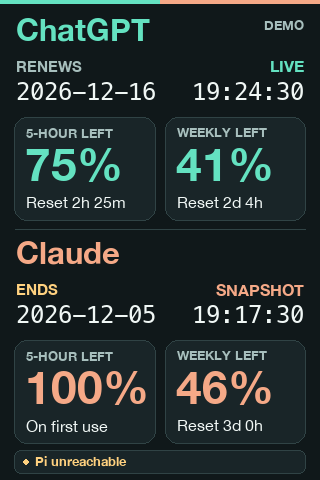
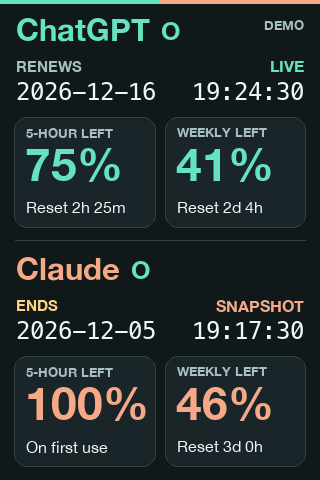
Show sync health next to each usage provider

diff --git a/dashboard.py b/dashboard.py
@@ -13,7 +13,6 @@ from pathlib import Path
 from PIL import Image, ImageDraw, ImageFont
 
 from claude_usage import ClaudeUsage, read_usage
-from monitor_status import Reachability
 from preferences import Preferences, Subscription, read_preferences
 from turzx import HEIGHT, WIDTH, Display
 from usage import CodexServer, UsageError, Window, find_codex, quota_windows
@@ -105,24 +104,40 @@ def allowance(window, accent):
     return remaining, color
 
 
-def chat_status(snapshot):
+def chat_status(snapshot, now):
     if snapshot.failed:
         return ("STALE" if snapshot.limits_at else "OFFLINE", AMBER)
-    return "LIVE", TEAL
+    if not snapshot.limits_at:
+        return "WAITING", MUTED
+    problem = quota_update_problem(snapshot.windows, now)
+    return (problem, AMBER) if problem else ("LIVE", TEAL)
 
 
 def claude_status(usage, now):
     if usage is None:
         return "WAITING", MUTED
-    if any(quota_expired(window, now) for window in usage.windows):
-        return "UPDATE DUE", AMBER
     age = now - usage.received_at
-    if usage.source == "web":
-        return ("STALE", AMBER) if age > timedelta(minutes=3) else ("LIVE", CLAUDE)
-    cached = age > timedelta(minutes=15)
-    if usage.source == "desktop":
-        return "SNAPSHOT", AMBER if cached else CLAUDE
-    return ("CACHED", AMBER) if cached else ("RECENT", CLAUDE)
+    stale_after = timedelta(minutes=3 if usage.source == "web" else 15)
+    if age > stale_after:
+        return ("STALE" if usage.source == "web" else "CACHED", AMBER)
+    problem = quota_update_problem(usage.windows, now)
+    if problem:
+        return problem, AMBER
+    return {"web": "LIVE", "desktop": "SNAPSHOT"}.get(usage.source, "RECENT"), CLAUDE
+
+
+def quota_update_problem(windows, now):
+    if not windows:
+        return "NO DATA"
+    if any(quota_expired(window, now) for window in windows):
+        return "UPDATE DUE"
+    if any(window.reset_at is None and not session_not_started(window) for window in windows):
+        return "RESET UNKNOWN"
+    return None
+
+
+def health_mark(status):
+    return ("O", TEAL) if status in {"LIVE", "SNAPSHOT", "RECENT"} else ("X", RED)
 
 
 def quota_expired(window, now):
@@ -141,13 +156,13 @@ def quota_card(draw, box, window, now, accent):
     label(draw, (left + 12, top + 11), f"{window_name(window.minutes)} LEFT", 13, MUTED, "bold")
     if quota_expired(window, now):
         label(draw, (left + 11, top + 33), "–", 46, MUTED, "bold")
-        label(draw, (left + 12, top + 80), "Awaiting update", 16, MUTED)
+        label(draw, (left + 12, top + 85), "Awaiting update", 16, MUTED)
         return
 
     remaining, color = allowance(window, accent)
     label(draw, (left + 11, top + 31), f"{remaining}%", 46, color, "bold")
     reset = "On first use" if session_not_started(window) else reset_label(window.reset_at, now)
-    label(draw, (left + 12, top + 80), reset, 16, TEXT)
+    label(draw, (left + 12, top + 85), reset, 16, TEXT)
 
 
 def subscription_label(subscription, now):
@@ -164,6 +179,9 @@ def subscription_label(subscription, now):
 def provider_section(draw, top, title, accent, status, stamp, subscription, windows, now,
                      *, empty, stacked=False):
     label(draw, (16, top), title, 31, accent, "bold")
+    mark, mark_color = health_mark(status[0])
+    mark_x = 16 + round(font(31, "bold").getlength(title)) + 11
+    label(draw, (mark_x, top + 4), mark, 25, mark_color, "bold")
     subscription_text, date_color = subscription_label(subscription, now)
     label(draw, (16, top + 43), subscription_text, 15, date_color, "bold")
     day = subscription.date if subscription else "—"
@@ -178,7 +196,7 @@ def provider_section(draw, top, title, accent, status, stamp, subscription, wind
 
     card_top = top + 99
     if not windows:
-        panel(draw, card_top, 104)
+        panel(draw, card_top, 111)
         label(draw, (27, card_top + 45), empty, 18)
         return
 
@@ -189,76 +207,31 @@ def provider_section(draw, top, title, accent, status, stamp, subscription, wind
     else:
         spans = ((14, 155, card_top), (165, 305, card_top))
     for window, (left, right, y) in zip(windows, spans):
-        quota_card(draw, (left, y, right, y + 103), window, now, accent)
+        quota_card(draw, (left, y, right, y + 110), window, now, accent)
 
 
-def status_messages(snapshot, claude, now, mode, unreachable):
-    messages = []
-    if mode != "claude" and snapshot.failed:
-        messages.append("ChatGPT sync unavailable")
-    if mode != "chatgpt":
-        status, _ = claude_status(claude, now)
-        if status == "WAITING":
-            messages.append("Claude usage not connected")
-        elif status in {"STALE", "CACHED"}:
-            messages.append("Claude sync delayed")
-        elif status == "UPDATE DUE":
-            messages.append("Claude quota reset · awaiting data")
-        elif claude.source == "desktop" and now - claude.received_at > timedelta(minutes=15):
-            messages.append("Claude snapshot needs refresh")
-        elif any(window.reset_at is None and not session_not_started(window) for window in claude.windows):
-            messages.append("Claude reset time unavailable")
-
-    providers = (
-        ("ChatGPT", snapshot.windows if mode != "claude" and not snapshot.failed else ()),
-        ("Claude", claude.windows if claude and mode != "chatgpt" else ()),
-    )
-    for name, windows in providers:
-        remaining = min((max(0, 100 - window.used) for window in windows or ()
-                         if not quota_expired(window, now)), default=100)
-        if remaining <= 10:
-            messages.append(f"{name} {remaining}% left")
-    messages.extend(f"{name} unreachable" for name in unreachable)
-    return messages
-
-
-def status_strip(draw, messages):
-    if not messages:
-        return
-    draw.rounded_rectangle((14, 450, 305, 473), radius=7, fill=PANEL, outline=BORDER)
-    draw.ellipse((23, 459, 28, 464), fill=AMBER)
-    for count in range(len(messages), 0, -1):
-        text = "  ·  ".join(messages[:count])
-        if count < len(messages):
-            text += f"  +{len(messages) - count}"
-        if font(13, "bold").getlength(text) <= 265:
-            label(draw, (35, 456), text, 13, AMBER, "bold")
-            break
-
-
-def render_dashboard(snapshot, claude, now, preferences, demo=False, *, unreachable=()):
+def render_dashboard(snapshot, claude, now, preferences, demo=False):
     mode = preferences.mode
     image = Image.new("RGB", (WIDTH, HEIGHT), BG)
     draw = ImageDraw.Draw(image)
     draw.rectangle((0, 0, WIDTH - 1, 3), fill=CLAUDE if mode == "claude" else TEAL)
     if mode == "combined":
         draw.rectangle((160, 0, WIDTH - 1, 3), fill=CLAUDE)
-        draw.line((15, 229, 305, 229), fill=BORDER)
+        draw.line((15, 240, 305, 240), fill=BORDER)
     if demo:
         label(draw, (304, 20), "DEMO", 13, MUTED, "bold", "rt")
 
     if mode != "claude":
         empty = "Quota unavailable" if snapshot.windows is None else "No quota window reported"
-        provider_section(draw, 18, "ChatGPT", TEAL, chat_status(snapshot), snapshot.limits_at,
+        provider_section(draw, 18, "ChatGPT", TEAL, chat_status(snapshot, now), snapshot.limits_at,
                          preferences.chatgpt_subscription, snapshot.windows, now,
                          empty=empty, stacked=mode == "chatgpt")
     if mode != "chatgpt":
-        top = 241 if mode == "combined" else 18
+        top = 257 if mode == "combined" else 18
         provider_section(draw, top, "Claude", CLAUDE, claude_status(claude, now),
                          claude.received_at if claude else None, preferences.claude_subscription,
                          claude.windows if claude else None, now, empty="Import Claude App usage",
                          stacked=mode == "claude")
-    status_strip(draw, status_messages(snapshot, claude, now, mode, unreachable))
     return image
 
 
@@ -274,8 +247,7 @@ def demo_image(path, mode):
     ), now)
     prefs = Preferences(mode=mode, chatgpt_subscription=Subscription("renews", "2026-12-16"),
                         claude_subscription=Subscription("ends", "2026-12-05"))
-    render_dashboard(snapshot, claude, now, prefs, demo=True,
-                     unreachable=("Pi",) if mode == "combined" else ()).save(path)
+    render_dashboard(snapshot, claude, now, prefs, demo=True).save(path)
 
 
 def main():
@@ -306,7 +278,6 @@ def main():
     server = CodexServer(executable)
     screen = Display(args.port)
     snapshot = Snapshot()
-    reachability = Reachability()
     last_poll = None
     last_claude_snapshot = None
     preferences = read_preferences()
@@ -342,8 +313,7 @@ def main():
 
             now = datetime.now().astimezone()
             claude = read_usage() if mode != "chatgpt" else None
-            reachability.refresh(preferences)
-            frame = render_dashboard(snapshot, claude, now, preferences, unreachable=reachability.unreachable)
+            frame = render_dashboard(snapshot, claude, now, preferences)
             try:
                 screen.show(frame, brightness=preferences.brightness)
             except OSError as error:

diff --git a/tests/test_usage_health.py b/tests/test_usage_health.py
@@ -1,0 +1,35 @@
+import unittest
+from datetime import datetime, timedelta
+
+from claude_usage import ClaudeUsage
+from dashboard import Snapshot, chat_status, claude_status, health_mark
+from usage import Window
+
+
+class UsageHealthTests(unittest.TestCase):
+    def setUp(self):
+        self.now = datetime.fromisoformat("2026-11-17T07:00:00+08:00")
+        self.reset = int((self.now + timedelta(hours=2)).timestamp())
+
+    def test_chatgpt_health_reflects_sync_and_not_remaining_amount(self):
+        windows = (Window(93, 300, self.reset),)
+        healthy = Snapshot(windows, self.now)
+        failed = Snapshot(windows, self.now, True)
+        for snapshot, symbol in ((healthy, "O"), (failed, "X"), (Snapshot(), "X"),
+                                 (Snapshot((), self.now), "X")):
+            self.assertEqual(health_mark(chat_status(snapshot, self.now)[0])[0], symbol)
+
+    def test_claude_mark_recovers_with_a_new_sync(self):
+        windows = (Window(20, 300, self.reset),)
+        stale = ClaudeUsage(self.now - timedelta(minutes=4), windows, "web")
+        fresh = ClaudeUsage(self.now, windows, "web")
+        old_snapshot = ClaudeUsage(self.now - timedelta(minutes=20), windows, "desktop")
+        for usage, symbol in ((None, "X"), (stale, "X"), (fresh, "O"), (old_snapshot, "X")):
+            self.assertEqual(health_mark(claude_status(usage, self.now)[0])[0], symbol)
+
+    def test_idle_session_is_healthy_and_missing_reset_is_not(self):
+        idle = ClaudeUsage(self.now, (Window(0, 300, None, True),), "web")
+        unknown = ClaudeUsage(self.now, (Window(0, 300, None, False),), "web")
+        expired = ClaudeUsage(self.now, (Window(25, 300, 1),), "web")
+        for usage, symbol in ((idle, "O"), (unknown, "X"), (expired, "X")):
+            self.assertEqual(health_mark(claude_status(usage, self.now)[0])[0], symbol)

diff --git a/preferences.py b/preferences.py
@@ -3,7 +3,6 @@
 import json
 from dataclasses import asdict, dataclass, replace
 from datetime import date
-from ipaddress import ip_address
 from pathlib import Path
 from tempfile import NamedTemporaryFile
 
@@ -34,8 +33,6 @@ class Preferences:
     blank_on_stop: bool = False
     chatgpt_subscription: Subscription | None = None
     claude_subscription: Subscription | None = None
-    nous_core_port: int | None = None
-    pi_host: str | None = None
 
 
 def read_preferences(path=PREFERENCES):
@@ -58,29 +55,7 @@ def read_preferences(path=PREFERENCES):
                 values[field] = subscription(entry.get("event"), entry.get("date"))
             except ValueError:
                 pass
-    try:
-        values.update(monitor_values(raw.get("nous_core_port"), raw.get("pi_host")))
-    except ValueError:
-        pass
     return Preferences(**values)
-
-
-def monitor_values(nous_port, pi_host):
-    if nous_port is not None and (type(nous_port) is not int or not 1 <= nous_port <= 65535):
-        raise ValueError("Use a valid localhost port for Nous Core")
-    if pi_host is not None:
-        if not isinstance(pi_host, str):
-            raise ValueError("Use a local IP address for the Pi")
-        address = ip_address(pi_host)
-        if not (address.is_private and not address.is_loopback and not address.is_unspecified):
-            raise ValueError("Use a local network IP address for the Pi")
-        pi_host = str(address)
-    return {"nous_core_port": nous_port, "pi_host": pi_host}
-
-
-def set_monitors(nous_port, pi_host, path=PREFERENCES):
-    updated = replace(read_preferences(path), **monitor_values(nous_port, pi_host))
-    save_preferences(updated, path)
 
 
 def set_preference(key, value, path=PREFERENCES):

diff --git a/service.py b/service.py
@@ -12,7 +12,7 @@ from pathlib import Path
 
 from claude_usage import write_usage
 from preferences import (CHOICES, SUBSCRIPTION_EVENTS, SUBSCRIPTION_FIELDS, read_preferences,
-                         set_monitors, set_preference, set_subscription)
+                         set_preference, set_subscription)
 from usage import find_codex
 
 LABEL = "com.pcpcchen.35inchsmartscreen"
@@ -55,15 +55,13 @@ def main():
     parser = argparse.ArgumentParser(description=__doc__)
     parser.add_argument("action", choices=(
         "install", "status", "uninstall", "menu-status", "set", "refresh", "import-claude",
-        "subscription", "monitors",
+        "subscription",
     ))
     parser.add_argument("--dashboard-root", type=Path, default=ROOT)
     parser.add_argument("--dashboard-python", default=sys.executable)
     parser.add_argument("--provider", choices=SUBSCRIPTION_FIELDS)
     parser.add_argument("--event", choices=(*SUBSCRIPTION_EVENTS, "clear"))
     parser.add_argument("--date")
-    parser.add_argument("--nous-port", type=int)
-    parser.add_argument("--pi-host")
     parser.add_argument("setting", nargs="?", choices=CHOICES)
     parser.add_argument("value", nargs="?")
     args = parser.parse_args()
@@ -76,12 +74,6 @@ def main():
             parser.error("set requires a setting and value")
         try:
             set_preference(args.setting, args.value)
-        except ValueError as error:
-            parser.error(str(error))
-        return 0
-    if args.action == "monitors":
-        try:
-            set_monitors(args.nous_port, args.pi_host)
         except ValueError as error:
             parser.error(str(error))
         return 0
